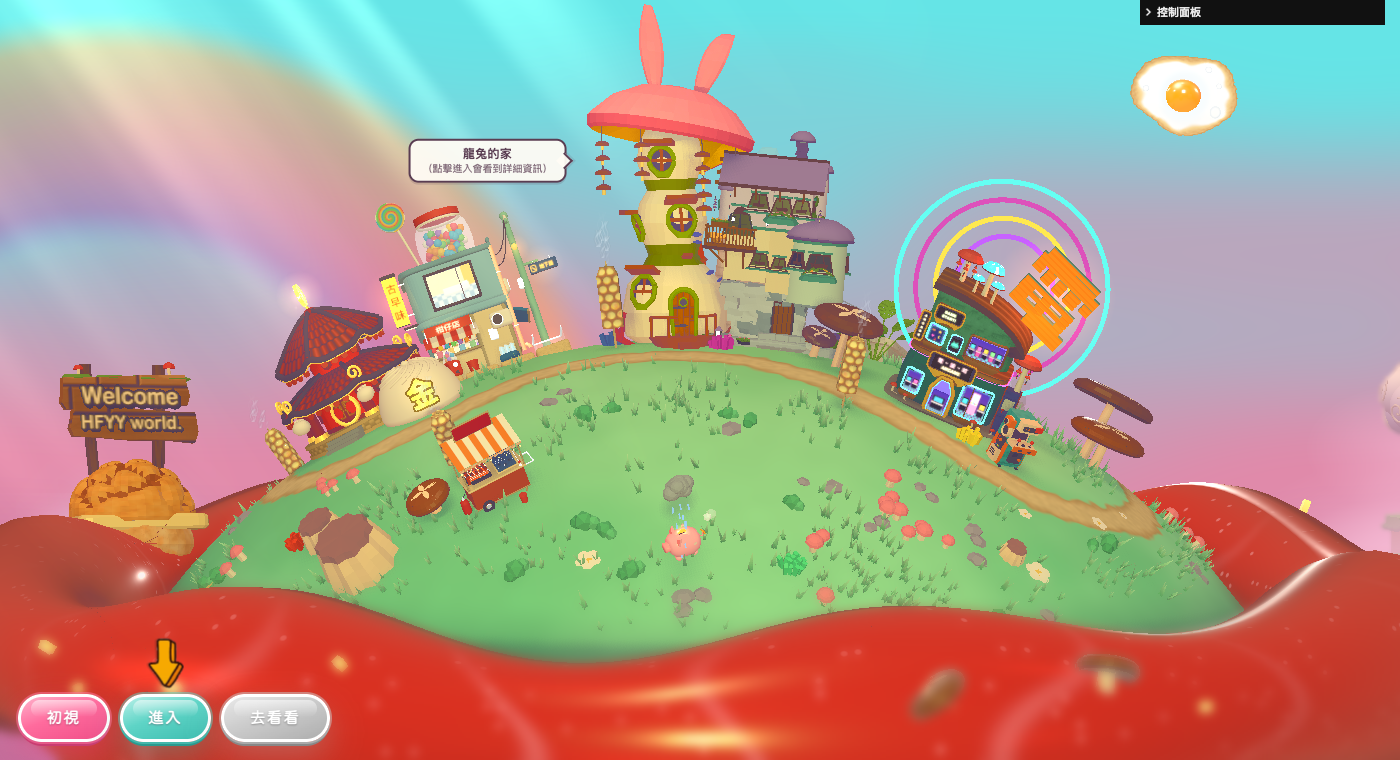
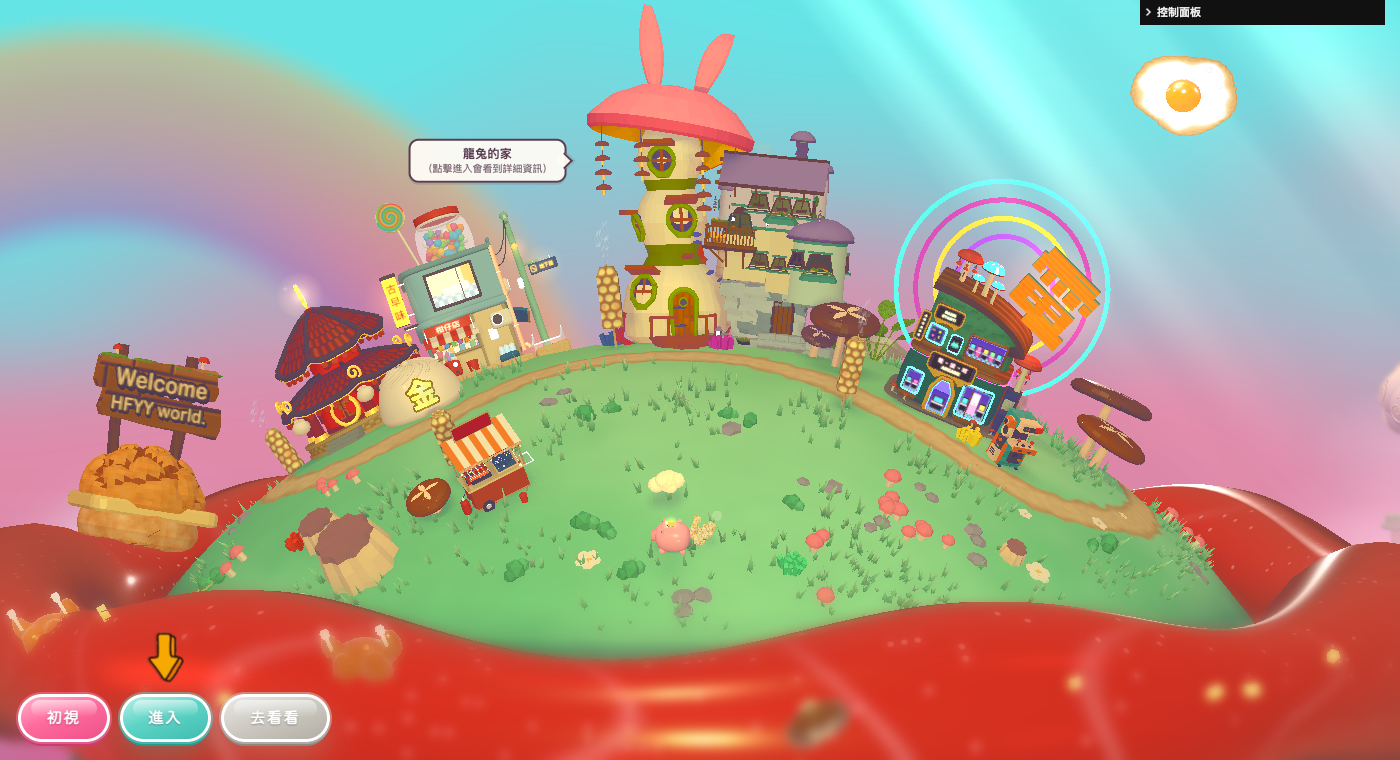
fix(world): 修正浮空小星球的 WebGL 警告，森林光束避開彩虹並固定位置
- softLayerPass：畫浮空小星球那一層時關掉 renderer 陰影，shader 不再有 sampler2DShadow，
  修正開場時的「Mismatch between texture format and sampler type」警告（真 GPU 也會出現）；
  開場預熱改用 compileLayer 編同樣沒有陰影的版本
- godRays：改成「入射窗口」，只有從上緣某一段射進來的光才有亮度（新增光束範圍寬）；
  座標改以畫面中心、畫面高度為準，視窗拉寬時光束不會整片移動
- 光束數值照面板設定（亮度 0.15、起點 -1.2、範圍寬 2.41）；文件更新

diff --git a/src/world/godRays.ts b/src/world/godRays.ts
@@ -6,8 +6,8 @@ import * as THREE from 'three';
  * 做法：最後一步在整個畫面上再畫一張全螢幕的四邊形（疊加發光，只會讓畫面變亮、不會遮住東西）。
  *   - 光束方向固定（angleDegrees：從「直直往下」往右轉幾度），所有光束互相平行（不是從一點放射出去）
  *   - 每個像素算「橫跨光束的座標」（跟光束方向垂直），用兩層 1D 雜訊決定哪裡有光：寬窄不一、慢慢飄移
- *   - 左上角（光進來的地方）最亮，沿著光的方向往右下慢慢淡出（reach）
- * 跟場景、鏡頭無關（貼在畫面上），所以綠球怎麼轉、視窗多寬，光束都在同一個地方。
+ *   - 只有從上緣 originX 往右 width 那一段射進來的光（入射窗口），沿著光的方向往右下慢慢淡出（reach）
+ * 跟場景、鏡頭無關（貼在畫面上），所以綠球怎麼轉，光束都在同一個地方；位置以畫面中心、畫面高度為準，視窗拉寬也不會整片移動。
  */
 export type GodRaySettings = {
   enabled: boolean;
@@ -17,8 +17,10 @@ export type GodRaySettings = {
   intensity: number;
   /** 光束的斜度（°）：0 = 直直往下，45 = 左上到右下的對角線 */
   angleDegrees: number;
-  /** 最亮的位置在畫面上緣的哪裡（0 = 最左、1 = 最右）：光從這附近進來 */
+  /** 光從畫面上緣的哪裡開始射進來：離畫面中心多遠（畫面高度的倍數，負 = 左邊）；比它更左邊不會有光。視窗寬窄改變也不會移動 */
   originX: number;
+  /** 光束範圍有多寬（從最亮處往右，畫面高度的倍數）：只有從這段上緣射進來的光 */
+  width: number;
   /** 光束的密度（畫面高度內大約幾條；越大越多、越細） */
   density: number;
   /** 光束的銳利度（越大光束越細、邊緣越清楚，光束之間越暗） */
@@ -32,9 +34,10 @@ export type GodRaySettings = {
 export const GOD_RAY_DEFAULT: GodRaySettings = {
   enabled: true,
   color: '#fff3d1',
-  intensity: 0.45,
+  intensity: 0.15,
   angleDegrees: 38,
-  originX: 0.15,
+  originX: -1.2,
+  width: 2.41,
   density: 9,
   sharpness: 2.6,
   reach: 1.1,
@@ -55,6 +58,7 @@ const FRAGMENT = /* glsl */ `
   uniform float uAspect;
   uniform float uAngle;
   uniform float uOriginX;
+  uniform float uWidth;
   uniform float uDensity;
   uniform float uSharpness;
   uniform float uReach;
@@ -70,8 +74,10 @@ const FRAGMENT = /* glsl */ `
   }
 
   void main() {
-    // 畫面座標換成「寬高等比」的空間：x 乘上寬高比，斜度才不會被拉扁
-    vec2 p = vec2(vUv.x * uAspect, vUv.y);
+    // 畫面座標：以「畫面中心」為 x 的原點、以「畫面高度」為單位（x 乘上寬高比，斜度才不會被拉扁）。
+    // 綠球永遠在畫面中間：視窗拉寬時只是兩側多出空間，光束相對綠球不動。
+    // （用「畫面寬度的比例」的話，視窗一拉寬，起點和整片光紋都會跟著滑動）
+    vec2 p = vec2((vUv.x - 0.5) * uAspect, vUv.y);
     // 光的方向：往下（-y）再往右轉 uAngle → 左上往右下；across 跟它垂直，用來分出一條一條的光束
     vec2 dir = vec2(sin(uAngle), -cos(uAngle));
     vec2 across = vec2(-dir.y, dir.x);
@@ -82,13 +88,17 @@ const FRAGMENT = /* glsl */ `
     rays = pow(smoothstep(0.28, 0.85, rays), uSharpness * 0.5);
     // 整體慢慢呼吸（亮暗起伏），像雲飄過去
     float breathe = 0.8 + 0.2 * sin(uTime * 2.3) * sin(uTime * 1.1 + 1.7);
-    // 光從左上角附近進來：離那一點越遠越淡（沿著光的方向走得越遠越淡，橫向也稍微淡一點）
-    vec2 origin = vec2(uOriginX * uAspect, 1.0);
-    vec2 d = p - origin;
-    float alongDist = max(dot(d, dir), 0.0);
-    float sideDist = abs(dot(d, across));
-    float fall = 1.0 - smoothstep(0.0, uReach, alongDist + sideDist * 0.35);
-    fall *= fall;
+    // 入射窗口：沿著光束往回推，這個像素的光是從畫面上緣哪裡射進來的（entryX）。
+    // 只有從 originX 往右一段（uWidth）射進來的才有光 —— 光束是平行的，只看「離最亮點多遠」的話，
+    // 最亮點左上方（光的上游，例如彩虹那一帶）也會被照到
+    float originX = uOriginX;
+    float entryX = p.x - (1.0 - p.y) * (dir.x / -dir.y);
+    float window = smoothstep(originX - 0.12, originX + 0.08, entryX)
+                 * (1.0 - smoothstep(originX + uWidth * 0.55, originX + uWidth, entryX));
+    // 從上緣射進來之後，沿著光的方向走越遠越淡
+    float alongDist = (1.0 - p.y) / -dir.y;
+    float fall = 1.0 - smoothstep(0.0, uReach, alongDist);
+    fall *= fall * window;
     float light = rays * fall * breathe * uIntensity;
     gl_FragColor = vec4(uColor * light, 1.0);
   }
@@ -106,6 +116,7 @@ export function createGodRays(settings: GodRaySettings = { ...GOD_RAY_DEFAULT })
       uAspect: { value: 1 },
       uAngle: { value: 0 },
       uOriginX: { value: 0 },
+      uWidth: { value: 1 },
       uDensity: { value: 10 },
       uSharpness: { value: 2 },
       uReach: { value: 1 },
@@ -132,6 +143,7 @@ export function createGodRays(settings: GodRaySettings = { ...GOD_RAY_DEFAULT })
     u.uAspect.value = size.x / Math.max(size.y, 1);
     u.uAngle.value = THREE.MathUtils.degToRad(settings.angleDegrees);
     u.uOriginX.value = settings.originX;
+    u.uWidth.value = settings.width;
     u.uDensity.value = settings.density;
     u.uSharpness.value = settings.sharpness;
     u.uReach.value = settings.reach;
@@ -154,6 +166,7 @@ export function formatGodRaySettingsForPaste(s: GodRaySettings) {
     `  intensity: ${s.intensity.toFixed(2)},\n` +
     `  angleDegrees: ${Math.round(s.angleDegrees)},\n` +
     `  originX: ${s.originX.toFixed(2)},\n` +
+    `  width: ${s.width.toFixed(2)},\n` +
     `  density: ${s.density.toFixed(1)},\n` +
     `  sharpness: ${s.sharpness.toFixed(2)},\n` +
     `  reach: ${s.reach.toFixed(2)},\n` +

diff --git a/src/world/softLayerPass.ts b/src/world/softLayerPass.ts
@@ -207,18 +207,23 @@ export function createSoftLayerPass({
     const previousMask = camera.layers.mask;
     const previousAlpha = renderer.getClearAlpha();
     renderer.getClearColor(clearColor);
-    const previousShadowAuto = renderer.shadowMap.autoUpdate;
+    const previousShadowEnabled = renderer.shadowMap.enabled;
 
     // 1. 只畫這一層，透明背景
     camera.layers.set(layer);
-    // 陰影貼圖主場景會更新；這一趟不用再算一次（小島本來就不投影、不接影）
-    renderer.shadowMap.autoUpdate = false;
+    // 這一層畫的時候把陰影整個關掉（不只是不更新）：
+    //   - 小島本來就不投影、不接影，關掉看起來完全一樣，也省掉一次陰影計算
+    //   - 開著的話，three.js 還是會在小島的 shader 裡放 sampler2DShadow（讀太陽、手電筒的陰影貼圖）；
+    //     這一層在主場景「之前」畫，開場時某一幀綁上的不是深度貼圖，WebGL 就報
+    //     「Mismatch between texture format and sampler type」，那一幀小島也畫不對
+    // 陰影開關是 shader 的編譯條件之一：小島的材質只在這裡畫，所以一直用「沒有陰影」的版本，不會來回重編
+    renderer.shadowMap.enabled = false;
     renderer.setRenderTarget(sharpTarget);
     renderer.setClearColor(0x000000, 0);
     renderer.clear(true, true, false);
     renderer.render(scene, camera);
     camera.layers.mask = previousMask;
-    renderer.shadowMap.autoUpdate = previousShadowAuto;
+    renderer.shadowMap.enabled = previousShadowEnabled;
 
     if (settings.enabled) {
       // 2、3. 橫向 + 直向高斯模糊（offset 用 UV 單位：1 像素 = 1/寬）
@@ -258,7 +263,28 @@ export function createSoftLayerPass({
     shareLightsWithLayer();
   }
 
-  return { settings, render, dispose, prepareForCompile };
+  /**
+   * 開場預熱：只編這一層、而且跟實際畫的時候一樣「關掉陰影」，編出來的 shader 才是同一個版本
+   * （主場景預熱時如果把這一層也一起編，編到的是「有陰影」的版本，實際畫的時候用不到、還要再編一次）。
+   * compileAsync 的「建立 shader」這一步是同步做完的，所以陰影開關、layer 可以在呼叫後立刻還原，再等它編完。
+   */
+  function compileLayer(): Promise<unknown> {
+    shareLightsWithLayer();
+    const previousMask = camera.layers.mask;
+    const previousShadowEnabled = renderer.shadowMap.enabled;
+    camera.layers.set(layer);
+    renderer.shadowMap.enabled = false;
+    try {
+      if (typeof renderer.compileAsync === 'function') return renderer.compileAsync(scene, camera);
+      renderer.compile(scene, camera);
+      return Promise.resolve();
+    } finally {
+      camera.layers.mask = previousMask;
+      renderer.shadowMap.enabled = previousShadowEnabled;
+    }
+  }
+
+  return { settings, render, dispose, prepareForCompile, compileLayer };
 }
 
 export function formatSoftLayerSettingsForPaste(s: SoftLayerSettings) {

diff --git a/src/world/main.ts b/src/world/main.ts
@@ -835,7 +835,8 @@ const godRays = createGodRays();
   rayFolder.addColor(g, 'color').name('顏色').onFinishChange(log);
   rayFolder.add(g, 'intensity', 0, 1, 0.01).name('亮度').onFinishChange(log);
   rayFolder.add(g, 'angleDegrees', 0, 80, 1).name('斜度 (°)（0 直下、45 對角）').onFinishChange(log);
-  rayFolder.add(g, 'originX', -0.5, 1, 0.01).name('最亮處（0 左上角）').onFinishChange(log);
+  rayFolder.add(g, 'originX', -2.5, 2.5, 0.01).name('光從上緣哪裡開始（0 畫面中心、負 = 左）').onFinishChange(log);
+  rayFolder.add(g, 'width', 0.1, 2.5, 0.01).name('光束範圍寬').onFinishChange(log);
   rayFolder.add(g, 'density', 2, 40, 0.5).name('密度（條數）').onFinishChange(log);
   rayFolder.add(g, 'sharpness', 0.5, 8, 0.05).name('銳利度').onFinishChange(log);
   rayFolder.add(g, 'reach', 0.2, 3, 0.01).name('往右下延伸多遠').onFinishChange(log);
@@ -3722,17 +3723,19 @@ renderer.setAnimationLoop(render);
 // 蓋板後先等 glb、分幀掛載、著色器預熱，再旋開，避免重整時畫面頓一下
 async function warmSceneShaders() {
   const compileMs = 10_000;
-  // 浮空小星球在自己的 layer（主鏡頭平常看不到），預熱時要把那一層也打開，
-  // 不然它的 shader 會拖到第一次畫的時候才編譯，畫面會卡一下
+  // 浮空小星球在自己的 layer（主鏡頭平常看不到），要另外預熱，
+  // 不然它的 shader 會拖到第一次畫的時候才編譯，畫面會卡一下。
+  // 它畫的時候陰影是關掉的（見 softLayerPass），所以用 compileLayer 編「沒有陰影」的版本，不能跟主場景一起編
   islandSoftPass.prepareForCompile();
-  camera.layers.enable(FLOATING_ISLAND_LAYER);
   const work = (async () => {
+    const islandWork = islandSoftPass.compileLayer();
     if (typeof renderer.compileAsync === 'function') {
-      await renderer.compileAsync(scene, camera);
+      await Promise.all([renderer.compileAsync(scene, camera), islandWork]);
       return;
     }
     renderer.compile(scene, camera);
-  })().finally(() => camera.layers.disable(FLOATING_ISLAND_LAYER));
+    await islandWork;
+  })();
   await Promise.race([
     work,
     new Promise<void>((_, reject) => {

diff --git a/openspec/changes/add-god-rays/design.md b/openspec/changes/add-god-rays/design.md
@@ -6,3 +6,14 @@
 - 從左上角（`originX`）進來最亮：沿光的方向走越遠越淡（`reach`），橫向也稍微淡一點；整體慢慢呼吸。
 - 畫面座標先乘寬高比，斜度不會被視窗比例拉扁。
 - 曾先做成「從畫面上方一點放射出去的扇形光」，使用者要求改成平行斜光後改掉；也曾誤做成菠蘿麵包上方的光錐，已還原。
+
+## 第二輪：避開彩虹
+
+- 「從左上角最亮」改成「入射窗口」：每個像素沿著光束往回推，算出光是從畫面上緣哪裡射進來的（entryX）；只有從 `originX`（預設 0.55）往右 `width`（0.9）那段射進來的才有光，沿著光的方向往右下淡出。
+- 舊作法只看「離最亮點多遠」，平行光的上游（最亮點左上方、彩虹那一帶）也會被照到，左上角疊成一片偏白的霧。
+
+## 第三輪：視窗拉寬不移動
+
+- 畫面座標改成「以畫面中心為 x 原點、以畫面高度為單位」；`originX` 也改成離畫面中心多遠（畫面高度的倍數，負 = 左），預設 -0.72（≈ 使用者在 1440×820 設的 0.09）。
+- 舊作法以「畫面寬度的比例」算，視窗拉寬時起點和整片光紋都會滑動；綠球永遠在畫面中間，改成以中心為準後，拉寬只是兩側多出空間。
+- 驗證：同高度 1200、1800 寬，各取以中心為準的同一塊區域並排，光紋位置一致。

diff --git a/docs/Engineering Evidence/god-rays.md b/docs/Engineering Evidence/god-rays.md
@@ -11,3 +11,11 @@
 ## 風險與後續追蹤
 
 - 疊加在整個畫面上，不會被房子、綠球擋住（不是體積光）；太亮會讓左上角的 UI（控制面板以外）跟著變亮，亮度建議 ≤ 0.6。
+
+## 追加：WebGL 警告修正（softLayerPass）
+
+- 現象：開頁面後約 5.6 秒，console 出現 7 次 `GL_INVALID_OPERATION: glDrawArrays: Mismatch between texture format and sampler type (signed/unsigned/float/shadow)`；真 GPU（Apple M2、ANGLE Metal）也會出現，不是 headless 的問題。
+- 定位：攔截每個 WebGL 呼叫、呼叫後立刻 getError，抓到出錯的 draw 都在 `softLayerPass.ts`（浮空小星球那一層）的 `renderer.render`，shader 裡有讀陰影貼圖的 sampler2DShadow。
+- 原因：小島不投影、不接影，但 renderer 開著陰影時 three.js 還是會在它的 shader 放陰影取樣器；這一層在主場景之前畫，開場某一幀綁到的不是深度貼圖。
+- 修正：畫這一層時把 `renderer.shadowMap.enabled` 關掉（畫完還原），小島的 shader 不再有陰影取樣器；開場預熱改用 `islandSoftPass.compileLayer()` 編同樣「沒有陰影」的版本，第一次畫不會卡。
+- 驗證：真 GPU 從載入開始 60 秒 console 0 則；每個 WebGL 呼叫都檢查 getError 也是 0 次。

diff --git a/openspec/changes/add-god-rays/validation.md b/openspec/changes/add-god-rays/validation.md
@@ -5,3 +5,7 @@
 - `tsc` 通過；瀏覽器 console 沒有錯誤。
 - 1400×760 截圖：左上角有平行、往右下斜的柔和光束，穿過彩虹與天空，往右下淡出；沒有放射狀（`docs/Engineering Evidence/assets/god-rays.png`）。
 - 問題與修正：第一版雜訊直接取次方，亮度只剩約 0.05，幾乎看不到 → 先 smoothstep 拉開對比；預設亮度 0.45。
+
+## 第二輪
+
+- 光束改成從上緣 0.55 往右射進來：左上彩虹那一帶沒有光紋，右上青色天空有平行斜光（截圖已更新）。
